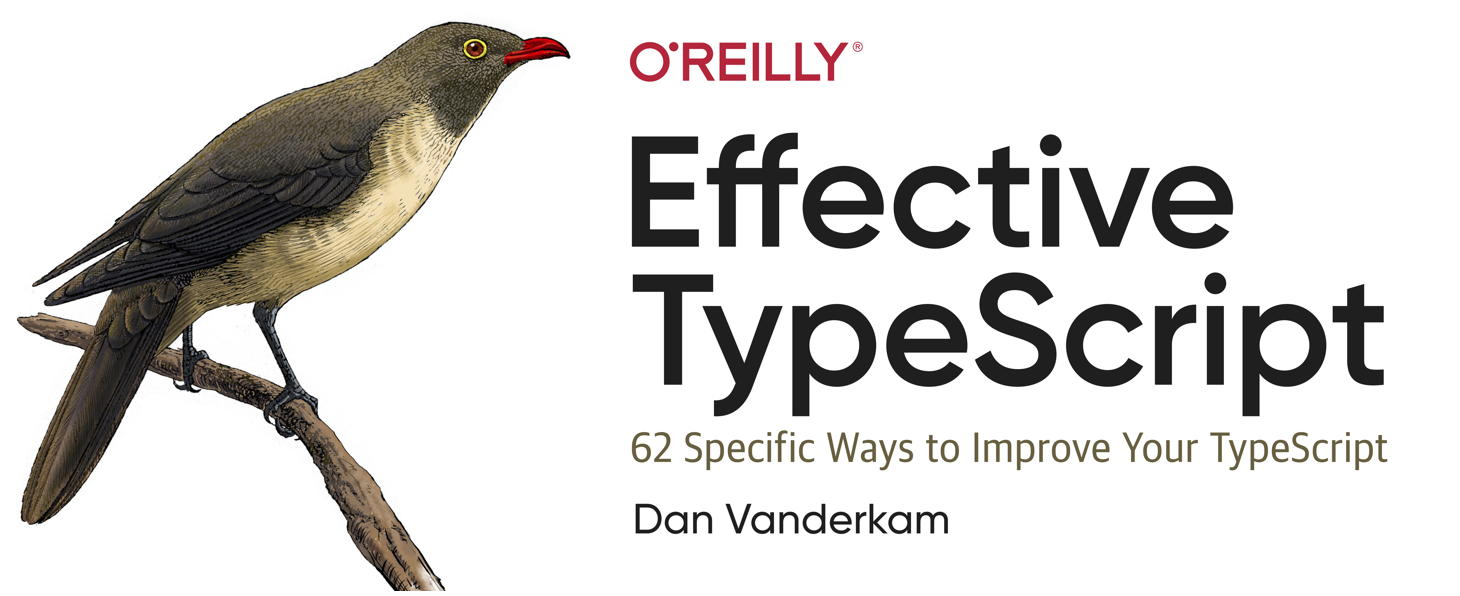
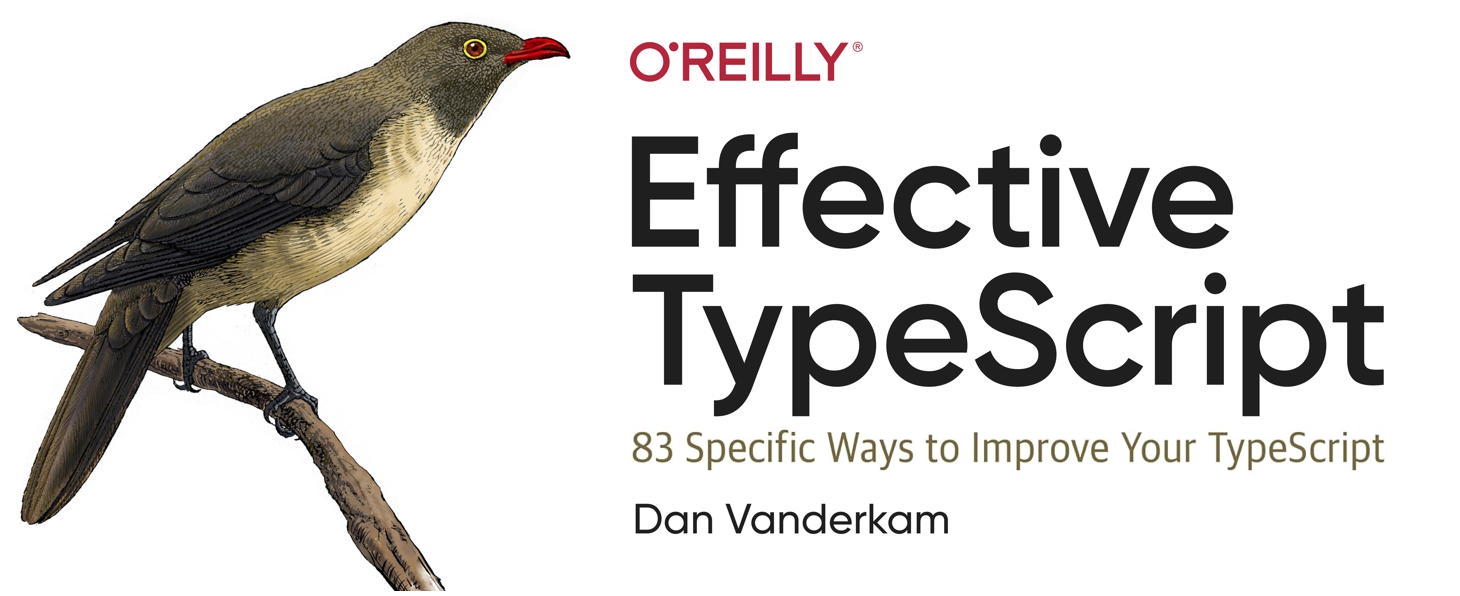
More second edition updates

Changed region(s): [[0.4315, 0.7248, 0.9555, 0.7852], [0.339, 0.0604, 0.4007, 0.0906]]

diff --git a/archives/2020/03/index.html b/archives/2020/03/index.html
@@ -75,7 +75,7 @@
     <div class="container">
       <div class="row">
         <div class="col-md-12">
-          <a target="_blank" rel="noopener" href="https://amzn.to/3HIrQN6" onclick="return trackOutboundLink('cover image', 'https://amzn.to/3HIrQN6', event);"><img src="https://effectivetypescript.com/images/cover.jpg" class="cover-photo" alt="Effective TypeScript Book Cover"></a>
+          <a target="_blank" rel="noopener" href="https://amzn.to/3UjPrsK" onclick="return trackOutboundLink('cover image', 'https://amzn.to/3UjPrsK', event);"><img src="/images/cover.jpg" class="cover-photo" alt="Effective TypeScript 2nd Edition Book Cover"></a>
 
           <p>TypeScript is a typed superset of JavaScript with the potential to solve many of the headaches for which JavaScript is famous. But TypeScript has a learning curve of its own, and understanding how to use it effectively can take time.</p>
 <p><em>Effective TypeScript (2nd Edition)</em> guides you through 83 specific ways to improve your use of TypeScript, following the format popularized by <em>Effective C++</em> and <em>Effective Java</em>. The second edition is thoroughly revised and updated to reflect the way that TypeScript is used 2024. It&#39;s expected to land in May 2024, but you can <a target="_blank" rel="noopener" href="https://amzn.to/3UjPrsK" onclick="return trackOutboundLink('effective typescript', 'https://amzn.to/3UjPrsK', event);">preorder</a> it today. You can also still buy the <a target="_blank" rel="noopener" href="https://amzn.to/3HIrQN6" onclick="return trackOutboundLink('effective typescript', 'https://amzn.to/3HIrQN6', event);">first edition</a>.</p>
@@ -229,7 +229,7 @@ _Effective TypeScript_ guides you through 62 specific ways to improve your use o
     <div class="row">
       <div class="col-md-12">
         <p>
-          For new TypeScript content every ~3 weeks, including new examples, sample items,
+          For new TypeScript content every ~month, including new examples, sample items,
           videos and book updates, choose one of these ways to stay in touch:
         </p>
 

diff --git a/archives/2020/04/index.html b/archives/2020/04/index.html
@@ -75,7 +75,7 @@
     <div class="container">
       <div class="row">
         <div class="col-md-12">
-          <a target="_blank" rel="noopener" href="https://amzn.to/3HIrQN6" onclick="return trackOutboundLink('cover image', 'https://amzn.to/3HIrQN6', event);"><img src="https://effectivetypescript.com/images/cover.jpg" class="cover-photo" alt="Effective TypeScript Book Cover"></a>
+          <a target="_blank" rel="noopener" href="https://amzn.to/3UjPrsK" onclick="return trackOutboundLink('cover image', 'https://amzn.to/3UjPrsK', event);"><img src="/images/cover.jpg" class="cover-photo" alt="Effective TypeScript 2nd Edition Book Cover"></a>
 
           <p>TypeScript is a typed superset of JavaScript with the potential to solve many of the headaches for which JavaScript is famous. But TypeScript has a learning curve of its own, and understanding how to use it effectively can take time.</p>
 <p><em>Effective TypeScript (2nd Edition)</em> guides you through 83 specific ways to improve your use of TypeScript, following the format popularized by <em>Effective C++</em> and <em>Effective Java</em>. The second edition is thoroughly revised and updated to reflect the way that TypeScript is used 2024. It&#39;s expected to land in May 2024, but you can <a target="_blank" rel="noopener" href="https://amzn.to/3UjPrsK" onclick="return trackOutboundLink('effective typescript', 'https://amzn.to/3UjPrsK', event);">preorder</a> it today. You can also still buy the <a target="_blank" rel="noopener" href="https://amzn.to/3HIrQN6" onclick="return trackOutboundLink('effective typescript', 'https://amzn.to/3HIrQN6', event);">first edition</a>.</p>
@@ -216,7 +216,7 @@ _Effective TypeScript_ guides you through 62 specific ways to improve your use o
     <div class="row">
       <div class="col-md-12">
         <p>
-          For new TypeScript content every ~3 weeks, including new examples, sample items,
+          For new TypeScript content every ~month, including new examples, sample items,
           videos and book updates, choose one of these ways to stay in touch:
         </p>
 

diff --git a/archives/2020/05/index.html b/archives/2020/05/index.html
@@ -75,7 +75,7 @@
     <div class="container">
       <div class="row">
         <div class="col-md-12">
-          <a target="_blank" rel="noopener" href="https://amzn.to/3HIrQN6" onclick="return trackOutboundLink('cover image', 'https://amzn.to/3HIrQN6', event);"><img src="https://effectivetypescript.com/images/cover.jpg" class="cover-photo" alt="Effective TypeScript Book Cover"></a>
+          <a target="_blank" rel="noopener" href="https://amzn.to/3UjPrsK" onclick="return trackOutboundLink('cover image', 'https://amzn.to/3UjPrsK', event);"><img src="/images/cover.jpg" class="cover-photo" alt="Effective TypeScript 2nd Edition Book Cover"></a>
 
           <p>TypeScript is a typed superset of JavaScript with the potential to solve many of the headaches for which JavaScript is famous. But TypeScript has a learning curve of its own, and understanding how to use it effectively can take time.</p>
 <p><em>Effective TypeScript (2nd Edition)</em> guides you through 83 specific ways to improve your use of TypeScript, following the format popularized by <em>Effective C++</em> and <em>Effective Java</em>. The second edition is thoroughly revised and updated to reflect the way that TypeScript is used 2024. It&#39;s expected to land in May 2024, but you can <a target="_blank" rel="noopener" href="https://amzn.to/3UjPrsK" onclick="return trackOutboundLink('effective typescript', 'https://amzn.to/3UjPrsK', event);">preorder</a> it today. You can also still buy the <a target="_blank" rel="noopener" href="https://amzn.to/3HIrQN6" onclick="return trackOutboundLink('effective typescript', 'https://amzn.to/3HIrQN6', event);">first edition</a>.</p>
@@ -207,7 +207,7 @@ _Effective TypeScript_ guides you through 62 specific ways to improve your use o
     <div class="row">
       <div class="col-md-12">
         <p>
-          For new TypeScript content every ~3 weeks, including new examples, sample items,
+          For new TypeScript content every ~month, including new examples, sample items,
           videos and book updates, choose one of these ways to stay in touch:
         </p>
 

diff --git a/archives/2020/06/index.html b/archives/2020/06/index.html
@@ -75,7 +75,7 @@
     <div class="container">
       <div class="row">
         <div class="col-md-12">
-          <a target="_blank" rel="noopener" href="https://amzn.to/3HIrQN6" onclick="return trackOutboundLink('cover image', 'https://amzn.to/3HIrQN6', event);"><img src="https://effectivetypescript.com/images/cover.jpg" class="cover-photo" alt="Effective TypeScript Book Cover"></a>
+          <a target="_blank" rel="noopener" href="https://amzn.to/3UjPrsK" onclick="return trackOutboundLink('cover image', 'https://amzn.to/3UjPrsK', event);"><img src="/images/cover.jpg" class="cover-photo" alt="Effective TypeScript 2nd Edition Book Cover"></a>
 
           <p>TypeScript is a typed superset of JavaScript with the potential to solve many of the headaches for which JavaScript is famous. But TypeScript has a learning curve of its own, and understanding how to use it effectively can take time.</p>
 <p><em>Effective TypeScript (2nd Edition)</em> guides you through 83 specific ways to improve your use of TypeScript, following the format popularized by <em>Effective C++</em> and <em>Effective Java</em>. The second edition is thoroughly revised and updated to reflect the way that TypeScript is used 2024. It&#39;s expected to land in May 2024, but you can <a target="_blank" rel="noopener" href="https://amzn.to/3UjPrsK" onclick="return trackOutboundLink('effective typescript', 'https://amzn.to/3UjPrsK', event);">preorder</a> it today. You can also still buy the <a target="_blank" rel="noopener" href="https://amzn.to/3HIrQN6" onclick="return trackOutboundLink('effective typescript', 'https://amzn.to/3HIrQN6', event);">first edition</a>.</p>
@@ -205,7 +205,7 @@ _Effective TypeScript_ guides you through 62 specific ways to improve your use o
     <div class="row">
       <div class="col-md-12">
         <p>
-          For new TypeScript content every ~3 weeks, including new examples, sample items,
+          For new TypeScript content every ~month, including new examples, sample items,
           videos and book updates, choose one of these ways to stay in touch:
         </p>
 

diff --git a/archives/2020/07/index.html b/archives/2020/07/index.html
@@ -75,7 +75,7 @@
     <div class="container">
       <div class="row">
         <div class="col-md-12">
-          <a target="_blank" rel="noopener" href="https://amzn.to/3HIrQN6" onclick="return trackOutboundLink('cover image', 'https://amzn.to/3HIrQN6', event);"><img src="https://effectivetypescript.com/images/cover.jpg" class="cover-photo" alt="Effective TypeScript Book Cover"></a>
+          <a target="_blank" rel="noopener" href="https://amzn.to/3UjPrsK" onclick="return trackOutboundLink('cover image', 'https://amzn.to/3UjPrsK', event);"><img src="/images/cover.jpg" class="cover-photo" alt="Effective TypeScript 2nd Edition Book Cover"></a>
 
           <p>TypeScript is a typed superset of JavaScript with the potential to solve many of the headaches for which JavaScript is famous. But TypeScript has a learning curve of its own, and understanding how to use it effectively can take time.</p>
 <p><em>Effective TypeScript (2nd Edition)</em> guides you through 83 specific ways to improve your use of TypeScript, following the format popularized by <em>Effective C++</em> and <em>Effective Java</em>. The second edition is thoroughly revised and updated to reflect the way that TypeScript is used 2024. It&#39;s expected to land in May 2024, but you can <a target="_blank" rel="noopener" href="https://amzn.to/3UjPrsK" onclick="return trackOutboundLink('effective typescript', 'https://amzn.to/3UjPrsK', event);">preorder</a> it today. You can also still buy the <a target="_blank" rel="noopener" href="https://amzn.to/3HIrQN6" onclick="return trackOutboundLink('effective typescript', 'https://amzn.to/3HIrQN6', event);">first edition</a>.</p>
@@ -184,7 +184,7 @@ _Effective TypeScript_ guides you through 62 specific ways to improve your use o
     <div class="row">
       <div class="col-md-12">
         <p>
-          For new TypeScript content every ~3 weeks, including new examples, sample items,
+          For new TypeScript content every ~month, including new examples, sample items,
           videos and book updates, choose one of these ways to stay in touch:
         </p>
 

diff --git a/archives/2020/08/index.html b/archives/2020/08/index.html
@@ -75,7 +75,7 @@
     <div class="container">
       <div class="row">
         <div class="col-md-12">
-          <a target="_blank" rel="noopener" href="https://amzn.to/3HIrQN6" onclick="return trackOutboundLink('cover image', 'https://amzn.to/3HIrQN6', event);"><img src="https://effectivetypescript.com/images/cover.jpg" class="cover-photo" alt="Effective TypeScript Book Cover"></a>
+          <a target="_blank" rel="noopener" href="https://amzn.to/3UjPrsK" onclick="return trackOutboundLink('cover image', 'https://amzn.to/3UjPrsK', event);"><img src="/images/cover.jpg" class="cover-photo" alt="Effective TypeScript 2nd Edition Book Cover"></a>
 
           <p>TypeScript is a typed superset of JavaScript with the potential to solve many of the headaches for which JavaScript is famous. But TypeScript has a learning curve of its own, and understanding how to use it effectively can take time.</p>
 <p><em>Effective TypeScript (2nd Edition)</em> guides you through 83 specific ways to improve your use of TypeScript, following the format popularized by <em>Effective C++</em> and <em>Effective Java</em>. The second edition is thoroughly revised and updated to reflect the way that TypeScript is used 2024. It&#39;s expected to land in May 2024, but you can <a target="_blank" rel="noopener" href="https://amzn.to/3UjPrsK" onclick="return trackOutboundLink('effective typescript', 'https://amzn.to/3UjPrsK', event);">preorder</a> it today. You can also still buy the <a target="_blank" rel="noopener" href="https://amzn.to/3HIrQN6" onclick="return trackOutboundLink('effective typescript', 'https://amzn.to/3HIrQN6', event);">first edition</a>.</p>
@@ -194,7 +194,7 @@ _Effective TypeScript_ guides you through 62 specific ways to improve your use o
     <div class="row">
       <div class="col-md-12">
         <p>
-          For new TypeScript content every ~3 weeks, including new examples, sample items,
+          For new TypeScript content every ~month, including new examples, sample items,
           videos and book updates, choose one of these ways to stay in touch:
         </p>
 

diff --git a/archives/2020/09/index.html b/archives/2020/09/index.html
@@ -75,7 +75,7 @@
     <div class="container">
       <div class="row">
         <div class="col-md-12">
-          <a target="_blank" rel="noopener" href="https://amzn.to/3HIrQN6" onclick="return trackOutboundLink('cover image', 'https://amzn.to/3HIrQN6', event);"><img src="https://effectivetypescript.com/images/cover.jpg" class="cover-photo" alt="Effective TypeScript Book Cover"></a>
+          <a target="_blank" rel="noopener" href="https://amzn.to/3UjPrsK" onclick="return trackOutboundLink('cover image', 'https://amzn.to/3UjPrsK', event);"><img src="/images/cover.jpg" class="cover-photo" alt="Effective TypeScript 2nd Edition Book Cover"></a>
 
           <p>TypeScript is a typed superset of JavaScript with the potential to solve many of the headaches for which JavaScript is famous. But TypeScript has a learning curve of its own, and understanding how to use it effectively can take time.</p>
 <p><em>Effective TypeScript (2nd Edition)</em> guides you through 83 specific ways to improve your use of TypeScript, following the format popularized by <em>Effective C++</em> and <em>Effective Java</em>. The second edition is thoroughly revised and updated to reflect the way that TypeScript is used 2024. It&#39;s expected to land in May 2024, but you can <a target="_blank" rel="noopener" href="https://amzn.to/3UjPrsK" onclick="return trackOutboundLink('effective typescript', 'https://amzn.to/3UjPrsK', event);">preorder</a> it today. You can also still buy the <a target="_blank" rel="noopener" href="https://amzn.to/3HIrQN6" onclick="return trackOutboundLink('effective typescript', 'https://amzn.to/3HIrQN6', event);">first edition</a>.</p>
@@ -184,7 +184,7 @@ _Effective TypeScript_ guides you through 62 specific ways to improve your use o
     <div class="row">
       <div class="col-md-12">
         <p>
-          For new TypeScript content every ~3 weeks, including new examples, sample items,
+          For new TypeScript content every ~month, including new examples, sample items,
           videos and book updates, choose one of these ways to stay in touch:
         </p>
 

diff --git a/archives/2020/11/index.html b/archives/2020/11/index.html
@@ -75,7 +75,7 @@
     <div class="container">
       <div class="row">
         <div class="col-md-12">
-          <a target="_blank" rel="noopener" href="https://amzn.to/3HIrQN6" onclick="return trackOutboundLink('cover image', 'https://amzn.to/3HIrQN6', event);"><img src="https://effectivetypescript.com/images/cover.jpg" class="cover-photo" alt="Effective TypeScript Book Cover"></a>
+          <a target="_blank" rel="noopener" href="https://amzn.to/3UjPrsK" onclick="return trackOutboundLink('cover image', 'https://amzn.to/3UjPrsK', event);"><img src="/images/cover.jpg" class="cover-photo" alt="Effective TypeScript 2nd Edition Book Cover"></a>
 
           <p>TypeScript is a typed superset of JavaScript with the potential to solve many of the headaches for which JavaScript is famous. But TypeScript has a learning curve of its own, and understanding how to use it effectively can take time.</p>
 <p><em>Effective TypeScript (2nd Edition)</em> guides you through 83 specific ways to improve your use of TypeScript, following the format popularized by <em>Effective C++</em> and <em>Effective Java</em>. The second edition is thoroughly revised and updated to reflect the way that TypeScript is used 2024. It&#39;s expected to land in May 2024, but you can <a target="_blank" rel="noopener" href="https://amzn.to/3UjPrsK" onclick="return trackOutboundLink('effective typescript', 'https://amzn.to/3UjPrsK', event);">preorder</a> it today. You can also still buy the <a target="_blank" rel="noopener" href="https://amzn.to/3HIrQN6" onclick="return trackOutboundLink('effective typescript', 'https://amzn.to/3HIrQN6', event);">first edition</a>.</p>
@@ -187,7 +187,7 @@ _Effective TypeScript_ guides you through 62 specific ways to improve your use o
     <div class="row">
       <div class="col-md-12">
         <p>
-          For new TypeScript content every ~3 weeks, including new examples, sample items,
+          For new TypeScript content every ~month, including new examples, sample items,
           videos and book updates, choose one of these ways to stay in touch:
         </p>
 

diff --git a/archives/2020/12/index.html b/archives/2020/12/index.html
@@ -75,7 +75,7 @@
     <div class="container">
       <div class="row">
         <div class="col-md-12">
-          <a target="_blank" rel="noopener" href="https://amzn.to/3HIrQN6" onclick="return trackOutboundLink('cover image', 'https://amzn.to/3HIrQN6', event);"><img src="https://effectivetypescript.com/images/cover.jpg" class="cover-photo" alt="Effective TypeScript Book Cover"></a>
+          <a target="_blank" rel="noopener" href="https://amzn.to/3UjPrsK" onclick="return trackOutboundLink('cover image', 'https://amzn.to/3UjPrsK', event);"><img src="/images/cover.jpg" class="cover-photo" alt="Effective TypeScript 2nd Edition Book Cover"></a>
 
           <p>TypeScript is a typed superset of JavaScript with the potential to solve many of the headaches for which JavaScript is famous. But TypeScript has a learning curve of its own, and understanding how to use it effectively can take time.</p>
 <p><em>Effective TypeScript (2nd Edition)</em> guides you through 83 specific ways to improve your use of TypeScript, following the format popularized by <em>Effective C++</em> and <em>Effective Java</em>. The second edition is thoroughly revised and updated to reflect the way that TypeScript is used 2024. It&#39;s expected to land in May 2024, but you can <a target="_blank" rel="noopener" href="https://amzn.to/3UjPrsK" onclick="return trackOutboundLink('effective typescript', 'https://amzn.to/3UjPrsK', event);">preorder</a> it today. You can also still buy the <a target="_blank" rel="noopener" href="https://amzn.to/3HIrQN6" onclick="return trackOutboundLink('effective typescript', 'https://amzn.to/3HIrQN6', event);">first edition</a>.</p>
@@ -207,7 +207,7 @@ _Effective TypeScript_ guides you through 62 specific ways to improve your use o
     <div class="row">
       <div class="col-md-12">
         <p>
-          For new TypeScript content every ~3 weeks, including new examples, sample items,
+          For new TypeScript content every ~month, including new examples, sample items,
           videos and book updates, choose one of these ways to stay in touch:
         </p>
 

diff --git a/archives/2020/page/2/index.html b/archives/2020/page/2/index.html
@@ -75,7 +75,7 @@
     <div class="container">
       <div class="row">
         <div class="col-md-12">
-          <a target="_blank" rel="noopener" href="https://amzn.to/3HIrQN6" onclick="return trackOutboundLink('cover image', 'https://amzn.to/3HIrQN6', event);"><img src="https://effectivetypescript.com/images/cover.jpg" class="cover-photo" alt="Effective TypeScript Book Cover"></a>
+          <a target="_blank" rel="noopener" href="https://amzn.to/3UjPrsK" onclick="return trackOutboundLink('cover image', 'https://amzn.to/3UjPrsK', event);"><img src="/images/cover.jpg" class="cover-photo" alt="Effective TypeScript 2nd Edition Book Cover"></a>
 
           <p>TypeScript is a typed superset of JavaScript with the potential to solve many of the headaches for which JavaScript is famous. But TypeScript has a learning curve of its own, and understanding how to use it effectively can take time.</p>
 <p><em>Effective TypeScript (2nd Edition)</em> guides you through 83 specific ways to improve your use of TypeScript, following the format popularized by <em>Effective C++</em> and <em>Effective Java</em>. The second edition is thoroughly revised and updated to reflect the way that TypeScript is used 2024. It&#39;s expected to land in May 2024, but you can <a target="_blank" rel="noopener" href="https://amzn.to/3UjPrsK" onclick="return trackOutboundLink('effective typescript', 'https://amzn.to/3UjPrsK', event);">preorder</a> it today. You can also still buy the <a target="_blank" rel="noopener" href="https://amzn.to/3HIrQN6" onclick="return trackOutboundLink('effective typescript', 'https://amzn.to/3HIrQN6', event);">first edition</a>.</p>
@@ -330,7 +330,7 @@ _Effective TypeScript_ guides you through 62 specific ways to improve your use o
     <div class="row">
       <div class="col-md-12">
         <p>
-          For new TypeScript content every ~3 weeks, including new examples, sample items,
+          For new TypeScript content every ~month, including new examples, sample items,
           videos and book updates, choose one of these ways to stay in touch:
         </p>
 

diff --git a/archives/2021/01/index.html b/archives/2021/01/index.html
@@ -75,7 +75,7 @@
     <div class="container">
       <div class="row">
         <div class="col-md-12">
-          <a target="_blank" rel="noopener" href="https://amzn.to/3HIrQN6" onclick="return trackOutboundLink('cover image', 'https://amzn.to/3HIrQN6', event);"><img src="https://effectivetypescript.com/images/cover.jpg" class="cover-photo" alt="Effective TypeScript Book Cover"></a>
+          <a target="_blank" rel="noopener" href="https://amzn.to/3UjPrsK" onclick="return trackOutboundLink('cover image', 'https://amzn.to/3UjPrsK', event);"><img src="/images/cover.jpg" class="cover-photo" alt="Effective TypeScript 2nd Edition Book Cover"></a>
 
           <p>TypeScript is a typed superset of JavaScript with the potential to solve many of the headaches for which JavaScript is famous. But TypeScript has a learning curve of its own, and understanding how to use it effectively can take time.</p>
 <p><em>Effective TypeScript (2nd Edition)</em> guides you through 83 specific ways to improve your use of TypeScript, following the format popularized by <em>Effective C++</em> and <em>Effective Java</em>. The second edition is thoroughly revised and updated to reflect the way that TypeScript is used 2024. It&#39;s expected to land in May 2024, but you can <a target="_blank" rel="noopener" href="https://amzn.to/3UjPrsK" onclick="return trackOutboundLink('effective typescript', 'https://amzn.to/3UjPrsK', event);">preorder</a> it today. You can also still buy the <a target="_blank" rel="noopener" href="https://amzn.to/3HIrQN6" onclick="return trackOutboundLink('effective typescript', 'https://amzn.to/3HIrQN6', event);">first edition</a>.</p>
@@ -217,7 +217,7 @@ _Effective TypeScript_ guides you through 62 specific ways to improve your use o
     <div class="row">
       <div class="col-md-12">
         <p>
-          For new TypeScript content every ~3 weeks, including new examples, sample items,
+          For new TypeScript content every ~month, including new examples, sample items,
           videos and book updates, choose one of these ways to stay in touch:
         </p>
 

diff --git a/archives/2021/02/index.html b/archives/2021/02/index.html
@@ -75,7 +75,7 @@
     <div class="container">
       <div class="row">
         <div class="col-md-12">
-          <a target="_blank" rel="noopener" href="https://amzn.to/3HIrQN6" onclick="return trackOutboundLink('cover image', 'https://amzn.to/3HIrQN6', event);"><img src="https://effectivetypescript.com/images/cover.jpg" class="cover-photo" alt="Effective TypeScript Book Cover"></a>
+          <a target="_blank" rel="noopener" href="https://amzn.to/3UjPrsK" onclick="return trackOutboundLink('cover image', 'https://amzn.to/3UjPrsK', event);"><img src="/images/cover.jpg" class="cover-photo" alt="Effective TypeScript 2nd Edition Book Cover"></a>
 
           <p>TypeScript is a typed superset of JavaScript with the potential to solve many of the headaches for which JavaScript is famous. But TypeScript has a learning curve of its own, and understanding how to use it effectively can take time.</p>
 <p><em>Effective TypeScript (2nd Edition)</em> guides you through 83 specific ways to improve your use of TypeScript, following the format popularized by <em>Effective C++</em> and <em>Effective Java</em>. The second edition is thoroughly revised and updated to reflect the way that TypeScript is used 2024. It&#39;s expected to land in May 2024, but you can <a target="_blank" rel="noopener" href="https://amzn.to/3UjPrsK" onclick="return trackOutboundLink('effective typescript', 'https://amzn.to/3UjPrsK', event);">preorder</a> it today. You can also still buy the <a target="_blank" rel="noopener" href="https://amzn.to/3HIrQN6" onclick="return trackOutboundLink('effective typescript', 'https://amzn.to/3HIrQN6', event);">first edition</a>.</p>
@@ -183,7 +183,7 @@ _Effective TypeScript_ guides you through 62 specific ways to improve your use o
     <div class="row">
       <div class="col-md-12">
         <p>
-          For new TypeScript content every ~3 weeks, including new examples, sample items,
+          For new TypeScript content every ~month, including new examples, sample items,
           videos and book updates, choose one of these ways to stay in touch:
         </p>
 
